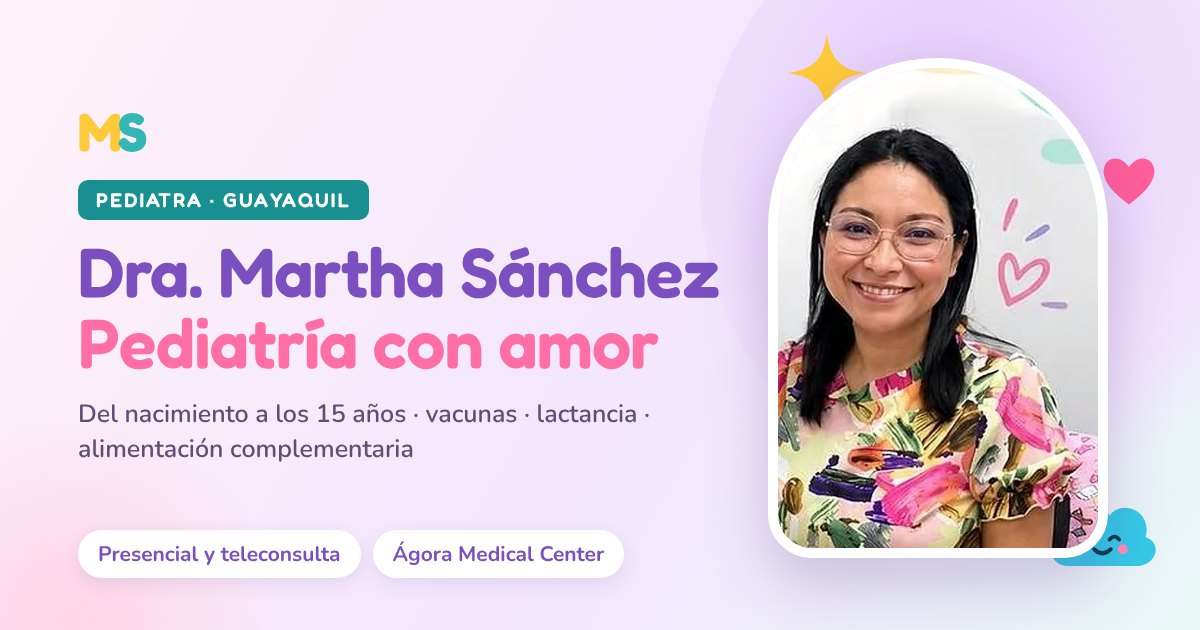
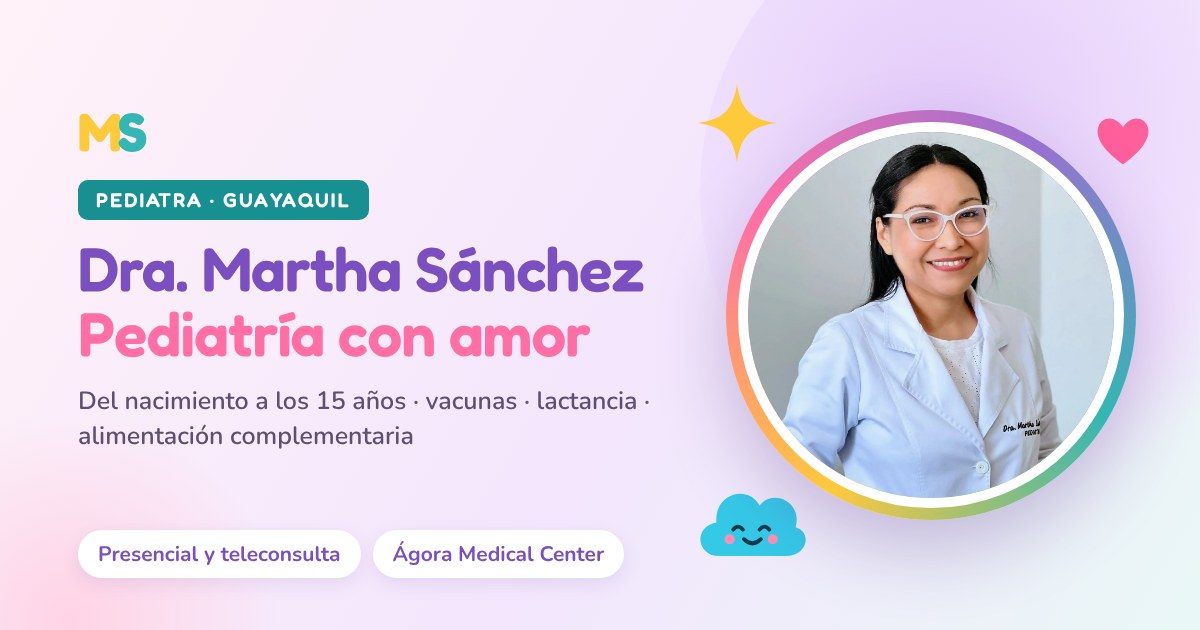
v5

Changed region(s): [[0.0617, 0.0603, 0.9867, 0.9349]]

diff --git a/index.html b/index.html
@@ -22,16 +22,16 @@
   <meta property="og:url" content="https://msaenzy.github.io/dra-martha-sanchez/">
   <meta property="og:title" content="Dra. Martha Sánchez · Pediatra en Guayaquil 💗">
   <meta property="og:description" content="Pediatría con amor, del nacimiento a los 15 años: consulta integral, vacunas, lactancia y alimentación complementaria. Presencial en Ágora Medical Center o teleconsulta.">
-  <meta property="og:image" content="https://msaenzy.github.io/dra-martha-sanchez/assets/images/og-dra-martha-sanchez-pediatra.jpg">
-  <meta property="og:image:secure_url" content="https://msaenzy.github.io/dra-martha-sanchez/assets/images/og-dra-martha-sanchez-pediatra.jpg">
+  <meta property="og:image" content="https://msaenzy.github.io/dra-martha-sanchez/assets/images/og-dra-martha-sanchez-pediatra.jpg?v=2">
+  <meta property="og:image:secure_url" content="https://msaenzy.github.io/dra-martha-sanchez/assets/images/og-dra-martha-sanchez-pediatra.jpg?v=2">
   <meta property="og:image:type" content="image/jpeg">
   <meta property="og:image:width" content="1200">
   <meta property="og:image:height" content="630">
-  <meta property="og:image:alt" content="Dra. Martha Sánchez, pediatra en Guayaquil, sonriendo en su consultorio">
+  <meta property="og:image:alt" content="Foto de perfil de la Dra. Martha Sánchez, pediatra en Guayaquil, con bata blanca, en un círculo de colores pastel">
   <meta name="twitter:card" content="summary_large_image">
   <meta name="twitter:title" content="Dra. Martha Sánchez · Pediatra en Guayaquil">
   <meta name="twitter:description" content="Pediatría con amor, del nacimiento a los 15 años. Presencial en Ágora Medical Center o teleconsulta.">
-  <meta name="twitter:image" content="https://msaenzy.github.io/dra-martha-sanchez/assets/images/og-dra-martha-sanchez-pediatra.jpg">
+  <meta name="twitter:image" content="https://msaenzy.github.io/dra-martha-sanchez/assets/images/og-dra-martha-sanchez-pediatra.jpg?v=2">
   <meta name="twitter:image:alt" content="Dra. Martha Sánchez, pediatra en Guayaquil">
 
   <link rel="icon" href="./assets/icons/favicon.svg" type="image/svg+xml">
@@ -50,6 +50,7 @@
   <link rel="stylesheet" href="./css/components.css">
   <link rel="stylesheet" href="./css/motion.css">
   <link rel="stylesheet" href="./css/responsive.css">
+  <link rel="stylesheet" href="./css/viewport.css">
   <script type="module" src="./js/main.js"></script>
 
   <script type="application/ld+json">
@@ -69,7 +70,7 @@
    "medicalSpecialty": "https://schema.org/Pediatric",
    "url": "https://msaenzy.github.io/dra-martha-sanchez/",
    "image": [
-    "https://msaenzy.github.io/dra-martha-sanchez/assets/images/og-dra-martha-sanchez-pediatra.jpg",
+    "https://msaenzy.github.io/dra-martha-sanchez/assets/images/og-dra-martha-sanchez-pediatra.jpg?v=2",
     "https://msaenzy.github.io/dra-martha-sanchez/assets/images/dra-martha-consultorio.jpg"
    ],
    "logo": "https://msaenzy.github.io/dra-martha-sanchez/assets/icons/icon-512.png",
@@ -278,7 +279,7 @@
       </ul>
     </nav>
     <div class="site-header__actions">
-      <a class="btn btn--cta btn--sm" href="https://wa.me/593979530787?text=Hola%20Dra.%20Martha%2C%20quiero%20agendar%20una%20cita." target="_blank" rel="noopener"><svg class="icon" aria-hidden="true"><use href="#i-chat"/></svg>Agendar</a>
+      <a class="btn btn--cta btn--sm" href="https://wa.me/593979530787?text=Hola%2C%20Dra.%20Martha.%20Me%20gustar%C3%ADa%20agendar%20una%20cita%20pedi%C3%A1trica%20para%20mi%20hijo%2Fa.%20%C2%BFPodr%C3%ADa%20indicarme%20los%20horarios%20disponibles%2C%20por%20favor%3F%20Muchas%20gracias." target="_blank" rel="noopener"><svg class="icon" aria-hidden="true"><use href="#i-chat"/></svg>Agendar</a>
       <button class="site-header__toggle" type="button" data-nav-toggle aria-expanded="false" aria-controls="nav-menu" data-label-open="Abrir menú" data-label-close="Cerrar menú" aria-label="Abrir menú"><span class="bar" aria-hidden="true"></span></button>
     </div>
   </header>
@@ -298,13 +299,13 @@
           </h1>
           <p class="lead" data-reveal="fade-up" style="--reveal-delay:.35s">Consulta pediátrica integral del nacimiento a los 15 años, vacunación y asesoría en lactancia y alimentación complementaria. En Guayaquil y por teleconsulta.</p>
           <div class="hero__cta" data-reveal="fade-up" style="--reveal-delay:.5s">
-            <a class="btn btn--cta" href="https://wa.me/593979530787?text=Hola%20Dra.%20Martha%2C%20quiero%20agendar%20una%20cita%20para%20mi%20hijo%2Fa." target="_blank" rel="noopener"><svg class="icon" aria-hidden="true"><use href="#i-chat"/></svg>Agendar consulta</a>
+            <a class="btn btn--cta" href="https://wa.me/593979530787?text=Hola%2C%20Dra.%20Martha.%20Me%20gustar%C3%ADa%20agendar%20una%20consulta%20pedi%C3%A1trica%20para%20mi%20hijo%2Fa.%20%C2%BFPodr%C3%ADa%20indicarme%20su%20disponibilidad%2C%20por%20favor%3F%20Muchas%20gracias." target="_blank" rel="noopener"><svg class="icon" aria-hidden="true"><use href="#i-chat"/></svg>Agendar consulta</a>
             <a class="btn btn--outline" href="#servicios">Ver servicios</a>
           </div>
           <ul class="hero__facts" role="list" data-reveal="fade-up" style="--reveal-delay:.65s">
-            <li><svg class="icon" aria-hidden="true"><use href="#i-clock"/></svg>Lunes a sábado, previa cita</li>
-            <li><svg class="icon" aria-hidden="true"><use href="#i-pin"/></svg>Ágora Medical Center</li>
-            <li><a href="https://www.instagram.com/dra_marthasanchez/" target="_blank" rel="noopener"><svg class="icon" aria-hidden="true"><use href="#i-instagram"/></svg>@dra_marthasanchez</a></li>
+            <li><a href="https://wa.me/593979530787?text=Hola%2C%20Dra.%20Martha.%20Me%20gustar%C3%ADa%20agendar%20una%20cita%20pedi%C3%A1trica%20para%20mi%20hijo%2Fa.%20%C2%BFPodr%C3%ADa%20indicarme%20los%20horarios%20disponibles%20de%20lunes%20a%20s%C3%A1bado%2C%20por%20favor%3F%20Muchas%20gracias." target="_blank" rel="noopener" aria-label="Agendar por WhatsApp: atención de lunes a sábado, previa cita"><svg class="icon" aria-hidden="true"><use href="#i-clock"/></svg>Lunes a sábado, previa cita</a></li>
+            <li><a href="https://www.google.com/maps/search/?api=1&amp;query=Edificio%20%C3%81gora%20Medical%20Center%20Guayaquil%20Ecuador" target="_blank" rel="noopener" aria-label="Ver la ubicación del consultorio en Google Maps"><svg class="icon" aria-hidden="true"><use href="#i-pin"/></svg>Ágora Medical Center</a></li>
+            <li><a href="https://www.instagram.com/dra_marthasanchez/" target="_blank" rel="noopener" aria-label="Abrir el Instagram de la Dra. Martha Sánchez"><svg class="icon" aria-hidden="true"><use href="#i-instagram"/></svg>@dra_marthasanchez</a></li>
           </ul>
         </div>
 
@@ -342,7 +343,7 @@
                 <li><span class="dot"><svg class="icon" aria-hidden="true"><use href="#i-down"/></svg></span>Seguimiento hasta los 15 años</li>
               </ul>
               <p data-reveal="fade-up">Una consulta con tiempo y buena explicación ayuda a resolverlas con calma. Agenda la tuya por WhatsApp.</p>
-              <a class="btn btn--cta" data-reveal="pop" href="https://wa.me/593979530787?text=Hola%20Dra.%20Martha%2C%20tengo%20dudas%20sobre%20mi%20hijo%2Fa%20y%20quiero%20una%20cita." target="_blank" rel="noopener"><svg class="icon" aria-hidden="true"><use href="#i-chat"/></svg>Agendar consulta</a>
+              <a class="btn btn--cta" data-reveal="pop" href="https://wa.me/593979530787?text=Hola%2C%20Dra.%20Martha.%20Tengo%20algunas%20dudas%20sobre%20la%20salud%20de%20mi%20hijo%2Fa%20y%20me%20gustar%C3%ADa%20agendar%20una%20consulta.%20%C2%BFPodr%C3%ADa%20indicarme%20su%20disponibilidad%2C%20por%20favor%3F" target="_blank" rel="noopener"><svg class="icon" aria-hidden="true"><use href="#i-chat"/></svg>Agendar consulta</a>
             </div>
           </div>
         </div>
@@ -364,44 +365,44 @@
             <article class="carousel__slide"><div class="svc">
               <div class="svc__art" style="--a:#34b6b4;--b:#8fdcd9"><svg viewBox="0 0 64 64" aria-hidden="true"><use href="#s-stetho"/></svg></div>
               <div class="svc__body"><h3>Consulta pediátrica integral</h3><p>Valoración y seguimiento de la salud de tu hijo, desde el nacimiento hasta los 15 años.</p>
-                <a class="svc__link" href="https://wa.me/593979530787?text=Hola%20Dra.%20Martha%2C%20quiero%20agendar%20una%20consulta%20pedi%C3%A1trica%20integral." target="_blank" rel="noopener">Agendar<svg class="icon" aria-hidden="true"><use href="#i-arrow"/></svg></a></div>
+                <a class="svc__link" href="https://wa.me/593979530787?text=Hola%2C%20Dra.%20Martha.%20Me%20gustar%C3%ADa%20agendar%20una%20consulta%20pedi%C3%A1trica%20integral%20para%20mi%20hijo%2Fa.%20%C2%BFQu%C3%A9%20horarios%20tiene%20disponibles%3F%20Muchas%20gracias." target="_blank" rel="noopener">Agendar<svg class="icon" aria-hidden="true"><use href="#i-arrow"/></svg></a></div>
             </div></article>
             <article class="carousel__slide"><div class="svc">
               <div class="svc__art" style="--a:#ff9a2e;--b:#ffc66f"><svg viewBox="0 0 64 64" aria-hidden="true"><use href="#s-syringe"/></svg></div>
               <div class="svc__body"><h3>Aplicación de vacunas</h3><p>Vacunación en consulta, según la edad de tu hijo y su esquema.</p>
-                <a class="svc__link" href="https://wa.me/593979530787?text=Hola%20Dra.%20Martha%2C%20quiero%20consultar%20por%20la%20aplicaci%C3%B3n%20de%20vacunas." target="_blank" rel="noopener">Agendar<svg class="icon" aria-hidden="true"><use href="#i-arrow"/></svg></a></div>
+                <a class="svc__link" href="https://wa.me/593979530787?text=Hola%2C%20Dra.%20Martha.%20Quisiera%20informaci%C3%B3n%20sobre%20la%20aplicaci%C3%B3n%20de%20vacunas%20para%20mi%20hijo%2Fa%20seg%C3%BAn%20su%20edad.%20%C2%BFPodr%C3%ADa%20indicarme%20su%20disponibilidad%2C%20por%20favor%3F" target="_blank" rel="noopener">Agendar<svg class="icon" aria-hidden="true"><use href="#i-arrow"/></svg></a></div>
             </div></article>
             <article class="carousel__slide"><div class="svc">
               <div class="svc__art" style="--a:#ff6fa6;--b:#ffa8c9"><svg viewBox="0 0 64 64" aria-hidden="true"><use href="#s-spoon"/></svg></div>
               <div class="svc__body"><h3>Alimentación complementaria</h3><p>Asesoría para iniciar y organizar la alimentación de tu bebé con seguridad.</p>
-                <a class="svc__link" href="https://wa.me/593979530787?text=Hola%20Dra.%20Martha%2C%20quiero%20una%20asesor%C3%ADa%20en%20alimentaci%C3%B3n%20complementaria." target="_blank" rel="noopener">Agendar<svg class="icon" aria-hidden="true"><use href="#i-arrow"/></svg></a></div>
+                <a class="svc__link" href="https://wa.me/593979530787?text=Hola%2C%20Dra.%20Martha.%20Me%20gustar%C3%ADa%20agendar%20una%20asesor%C3%ADa%20en%20alimentaci%C3%B3n%20complementaria%20para%20mi%20beb%C3%A9.%20%C2%BFQu%C3%A9%20horarios%20tiene%20disponibles%3F%20Muchas%20gracias." target="_blank" rel="noopener">Agendar<svg class="icon" aria-hidden="true"><use href="#i-arrow"/></svg></a></div>
             </div></article>
             <article class="carousel__slide"><div class="svc">
               <div class="svc__art" style="--a:#9a70d1;--b:#c6aaf0"><svg viewBox="0 0 64 64" aria-hidden="true"><use href="#s-prenatal"/></svg></div>
               <div class="svc__body"><h3>Asesoría prenatal en lactancia</h3><p>Prepara la lactancia antes de que nazca tu bebé y llega con tus dudas resueltas.</p>
-                <a class="svc__link" href="https://wa.me/593979530787?text=Hola%20Dra.%20Martha%2C%20quiero%20una%20asesor%C3%ADa%20prenatal%20en%20lactancia." target="_blank" rel="noopener">Agendar<svg class="icon" aria-hidden="true"><use href="#i-arrow"/></svg></a></div>
+                <a class="svc__link" href="https://wa.me/593979530787?text=Hola%2C%20Dra.%20Martha.%20Estamos%20esperando%20a%20nuestro%20beb%C3%A9%20y%20nos%20gustar%C3%ADa%20agendar%20una%20asesor%C3%ADa%20prenatal%20en%20lactancia.%20%C2%BFPodr%C3%ADa%20indicarnos%20su%20disponibilidad%2C%20por%20favor%3F" target="_blank" rel="noopener">Agendar<svg class="icon" aria-hidden="true"><use href="#i-arrow"/></svg></a></div>
             </div></article>
             <article class="carousel__slide"><div class="svc">
               <div class="svc__art" style="--a:#2a6fd6;--b:#7fb0f2"><svg viewBox="0 0 64 64" aria-hidden="true"><use href="#s-drop"/></svg></div>
               <div class="svc__body"><h3>Asesoría en lactancia</h3><p>Acompañamiento y orientación durante la lactancia de tu bebé.</p>
-                <a class="svc__link" href="https://wa.me/593979530787?text=Hola%20Dra.%20Martha%2C%20quiero%20una%20asesor%C3%ADa%20en%20lactancia." target="_blank" rel="noopener">Agendar<svg class="icon" aria-hidden="true"><use href="#i-arrow"/></svg></a></div>
+                <a class="svc__link" href="https://wa.me/593979530787?text=Hola%2C%20Dra.%20Martha.%20Me%20gustar%C3%ADa%20agendar%20una%20asesor%C3%ADa%20en%20lactancia.%20%C2%BFPodr%C3%ADa%20indicarme%20su%20disponibilidad%2C%20por%20favor%3F%20Muchas%20gracias." target="_blank" rel="noopener">Agendar<svg class="icon" aria-hidden="true"><use href="#i-arrow"/></svg></a></div>
             </div></article>
             <article class="carousel__slide"><div class="svc">
               <div class="svc__art" style="--a:#ff8a68;--b:#ffb59d"><svg viewBox="0 0 64 64" aria-hidden="true"><use href="#s-thermo"/></svg></div>
               <div class="svc__body"><h3>Enfermedades pediátricas</h3><p>Atención y orientación cuando tu niño se enferma, con explicaciones claras para la familia.</p>
-                <a class="svc__link" href="https://wa.me/593979530787?text=Hola%20Dra.%20Martha%2C%20quiero%20una%20consulta%20por%20una%20enfermedad%20pedi%C3%A1trica." target="_blank" rel="noopener">Agendar<svg class="icon" aria-hidden="true"><use href="#i-arrow"/></svg></a></div>
+                <a class="svc__link" href="https://wa.me/593979530787?text=Hola%2C%20Dra.%20Martha.%20Mi%20hijo%2Fa%20no%20se%20encuentra%20bien%20y%20me%20gustar%C3%ADa%20agendar%20una%20consulta.%20%C2%BFCu%C3%A1l%20es%20su%20primer%20horario%20disponible%2C%20por%20favor%3F" target="_blank" rel="noopener">Agendar<svg class="icon" aria-hidden="true"><use href="#i-arrow"/></svg></a></div>
             </div></article>
             <article class="carousel__slide"><div class="svc">
               <div class="svc__art" style="--a:#188f90;--b:#5fd0cb"><svg viewBox="0 0 64 64" aria-hidden="true"><use href="#s-video"/></svg></div>
               <div class="svc__body"><h3>Teleconsulta</h3><p>Asesoría desde casa para aclarar dudas sobre enfermedades de tu niño, alimentación y lactancia.</p>
-                <a class="svc__link" href="https://wa.me/593979530787?text=Hola%20Dra.%20Martha%2C%20quiero%20agendar%20una%20teleconsulta." target="_blank" rel="noopener">Agendar teleconsulta<svg class="icon" aria-hidden="true"><use href="#i-arrow"/></svg></a></div>
+                <a class="svc__link" href="https://wa.me/593979530787?text=Hola%2C%20Dra.%20Martha.%20Me%20interesa%20agendar%20una%20teleconsulta.%20%C2%BFPodr%C3%ADa%20indicarme%20c%C3%B3mo%20funciona%20y%20qu%C3%A9%20horarios%20tiene%20disponibles%2C%20por%20favor%3F" target="_blank" rel="noopener">Agendar teleconsulta<svg class="icon" aria-hidden="true"><use href="#i-arrow"/></svg></a></div>
             </div></article>
           </div>
           <button class="carousel__btn carousel__btn--next" type="button" aria-label="Más servicios" hidden><svg class="icon" aria-hidden="true"><use href="#i-right"/></svg></button>
           <div class="carousel__dots carousel__dots--dark" data-dots></div>
         </div>
         <p style="margin:var(--space-md) auto 0;text-align:center;font-weight:700;color:var(--color-primary)" data-reveal="fade-up">Consulta presencial en Guayaquil o teleconsulta.</p>
-        <div style="display:flex;justify-content:center;margin-top:var(--space-md)" data-reveal="pop"><a class="btn btn--cta" href="https://wa.me/593979530787?text=Hola%20Dra.%20Martha%2C%20quiero%20agendar%20una%20cita." target="_blank" rel="noopener"><svg class="icon" aria-hidden="true"><use href="#i-chat"/></svg>Agendar consulta</a></div>
+        <div style="display:flex;justify-content:center;margin-top:var(--space-md)" data-reveal="pop"><a class="btn btn--cta" href="https://wa.me/593979530787?text=Hola%2C%20Dra.%20Martha.%20Me%20gustar%C3%ADa%20agendar%20una%20cita%20pedi%C3%A1trica%20para%20mi%20hijo%2Fa.%20%C2%BFPodr%C3%ADa%20indicarme%20los%20horarios%20disponibles%2C%20por%20favor%3F%20Muchas%20gracias." target="_blank" rel="noopener"><svg class="icon" aria-hidden="true"><use href="#i-chat"/></svg>Agendar consulta</a></div>
       </div>
     </section>
 
@@ -416,10 +417,6 @@
           <p>La atención es previa cita. Son cuatro pasos y casi todo ocurre por WhatsApp.</p>
         </div>
         <div class="how__grid">
-          <div class="how__photo" data-reveal="scale">
-            <svg class="how__swirl" viewBox="0 0 400 500" aria-hidden="true" data-parallax="0.05"><use href="#st-swirl"/></svg>
-            <div class="photo"><img data-asset="how" src="./assets/images/dra-martha-consultorio.jpg" alt="La doctora Martha Sánchez sonriendo, sentada en su escritorio" width="640" height="1260" loading="lazy" decoding="async"></div>
-          </div>
           <article class="step" data-reveal="fade-right"><div class="step__head"><span class="step__n">01</span><h3>Escríbenos por WhatsApp</h3></div><p>Al 097 953 0787. Cuéntanos la edad de tu hijo y el motivo de la consulta.</p></article>
           <article class="step" data-reveal="fade-left"><div class="step__head"><span class="step__n">02</span><h3>Elige la modalidad</h3></div><p>Consulta presencial en el Edificio Ágora Medical Center, o teleconsulta desde casa.</p></article>
           <article class="step" data-reveal="fade-right"><div class="step__head"><span class="step__n">03</span><h3>Confirma día y hora</h3></div><p>De lunes a sábado, en horario de mañana (8:00 a 13:00) o tarde (14:00 a 18:00).</p></article>
@@ -518,7 +515,7 @@
       <div class="container about__grid">
         <div class="about__media" data-reveal="fade-right">
           <svg class="wave" viewBox="0 0 400 500" aria-hidden="true" data-parallax="0.05"><use href="#st-wave"/></svg>
-          <div class="photo"><img data-asset="about" src="./assets/images/dra-martha-bata.jpg" alt="La doctora Martha Sánchez con bata blanca y estetoscopio, junto a los juguetes de su consultorio" width="956" height="1466" loading="lazy" decoding="async"></div>
+          <div class="photo"><img data-asset="about" src="./assets/images/martha-escritorio.jpg" alt="La doctora Martha Sánchez, pediatra en Guayaquil, atendiendo en su consultorio con bata rosa y estetoscopio" width="910" height="1542" loading="lazy" decoding="async"></div>
           <span class="sticker sticker--float" style="--s:5rem;--r:-8deg;bottom:-3%;left:-9%;--bob:7s" data-parallax="0.1" aria-hidden="true"><svg viewBox="0 0 100 100"><use href="#st-sun"/></svg></span>
           <span class="sticker sticker--float" style="--s:3.8rem;--r:10deg;top:-1%;right:-6%" data-parallax="0.15" aria-hidden="true"><svg viewBox="0 0 100 100"><use href="#st-flower"/></svg></span>
         </div>
@@ -537,7 +534,7 @@
               <li>Edificio Ágora Medical Center, Guayaquil</li>
             </ul>
           </div>
-          <div><a class="btn btn--cta" href="https://wa.me/593979530787?text=Hola%20Dra.%20Martha%2C%20quiero%20agendar%20una%20cita." target="_blank" rel="noopener"><svg class="icon" aria-hidden="true"><use href="#i-chat"/></svg>Agendar consulta</a></div>
+          <div><a class="btn btn--cta" href="https://wa.me/593979530787?text=Hola%2C%20Dra.%20Martha.%20Me%20gustar%C3%ADa%20agendar%20una%20cita%20pedi%C3%A1trica%20para%20mi%20hijo%2Fa.%20%C2%BFPodr%C3%ADa%20indicarme%20los%20horarios%20disponibles%2C%20por%20favor%3F%20Muchas%20gracias." target="_blank" rel="noopener"><svg class="icon" aria-hidden="true"><use href="#i-chat"/></svg>Agendar consulta</a></div>
         </div>
       </div>
     </section>
@@ -560,7 +557,7 @@
             <span class="sticker sticker--float" style="--s:4.6rem;--r:8deg;top:-1.2rem;right:-.6rem" aria-hidden="true"><svg viewBox="0 0 100 100"><use href="#st-cloud"/></svg></span>
             <h3>¿Tienes otra pregunta?</h3>
             <p>Escríbenos y te respondemos por WhatsApp.</p>
-            <a class="btn btn--white btn--sm" href="https://wa.me/593979530787?text=Hola%20Dra.%20Martha%2C%20tengo%20una%20pregunta." target="_blank" rel="noopener"><svg class="icon" aria-hidden="true"><use href="#i-chat"/></svg>Escribir</a>
+            <a class="btn btn--white btn--sm" href="https://wa.me/593979530787?text=Hola%2C%20Dra.%20Martha.%20Visit%C3%A9%20su%20p%C3%A1gina%20web%20y%20quisiera%20hacerle%20una%20consulta%2C%20por%20favor." target="_blank" rel="noopener"><svg class="icon" aria-hidden="true"><use href="#i-chat"/></svg>Escribir</a>
           </aside>
         </div>
       </div>
@@ -581,7 +578,7 @@
               <div class="place__row"><span class="ico"><svg class="icon" aria-hidden="true"><use href="#i-pin"/></svg></span><p><strong>Consultorio:</strong> Edificio Ágora Medical Center, Guayaquil</p></div>
               <div class="place__row"><span class="ico"><svg class="icon" aria-hidden="true"><use href="#i-clock"/></svg></span><p><strong>Horario:</strong> lunes a sábado, 8:00 a 13:00 y 14:00 a 18:00</p></div>
               <div class="place__cta">
-                <a class="btn btn--cta btn--sm" href="https://wa.me/593979530787?text=Hola%20Dra.%20Martha%2C%20quiero%20agendar%20una%20consulta%20presencial." target="_blank" rel="noopener"><svg class="icon" aria-hidden="true"><use href="#i-chat"/></svg>Agendar</a>
+                <a class="btn btn--cta btn--sm" href="https://wa.me/593979530787?text=Hola%2C%20Dra.%20Martha.%20Me%20gustar%C3%ADa%20agendar%20una%20consulta%20presencial%20en%20su%20consultorio%20del%20%C3%81gora%20Medical%20Center.%20%C2%BFPodr%C3%ADa%20indicarme%20los%20horarios%20disponibles%2C%20por%20favor%3F" target="_blank" rel="noopener"><svg class="icon" aria-hidden="true"><use href="#i-chat"/></svg>Agendar</a>
                 <a class="btn btn--outline btn--sm" href="https://www.google.com/maps/search/?api=1&amp;query=Edificio%20%C3%81gora%20Medical%20Center%20Guayaquil%20Ecuador" target="_blank" rel="noopener">Abrir en el mapa</a>
               </div>
             </div>
@@ -593,7 +590,7 @@
               <div class="place__row"><span class="ico"><svg class="icon" aria-hidden="true"><use href="#i-video"/></svg></span><p><strong>Para qué sirve:</strong> aclarar dudas sobre enfermedades de tu niño y recibir asesoría en alimentación y lactancia.</p></div>
               <div class="place__row"><span class="ico"><svg class="icon" aria-hidden="true"><use href="#i-phone"/></svg></span><p><strong>Cómo pedirla:</strong> por WhatsApp, al <a href="tel:+593979530787">097 953 0787</a></p></div>
               <div class="place__cta">
-                <a class="btn btn--cta btn--sm" href="https://wa.me/593979530787?text=Hola%20Dra.%20Martha%2C%20quiero%20agendar%20una%20teleconsulta." target="_blank" rel="noopener"><svg class="icon" aria-hidden="true"><use href="#i-chat"/></svg>Agendar teleconsulta</a>
+                <a class="btn btn--cta btn--sm" href="https://wa.me/593979530787?text=Hola%2C%20Dra.%20Martha.%20Me%20interesa%20agendar%20una%20teleconsulta.%20%C2%BFPodr%C3%ADa%20indicarme%20c%C3%B3mo%20funciona%20y%20qu%C3%A9%20horarios%20tiene%20disponibles%2C%20por%20favor%3F" target="_blank" rel="noopener"><svg class="icon" aria-hidden="true"><use href="#i-chat"/></svg>Agendar teleconsulta</a>
               </div>
             </div>
           </article>
@@ -616,6 +613,7 @@
             </div>
             <form class="form" id="form-cita" action="https://wa.me/593979530787" method="get" target="_blank" data-reveal="scale">
               <div class="field"><label for="f-nombre">Tu nombre</label><input id="f-nombre" name="nombre" type="text" autocomplete="name" required placeholder="Nombre y apellido"></div>
+              <div class="field"><label for="f-edad">Nombre y edad de tu hijo/a <small>(opcional)</small></label><input id="f-edad" name="paciente" type="text" autocomplete="off" placeholder="Ej.: Sofía, 8 meses"></div>
               <div class="field"><label for="f-motivo">¿Qué necesitas?</label>
                 <select id="f-motivo" name="motivo" required>
                   <option value="una consulta pediátrica integral">Consulta pediátrica integral</option>
@@ -623,13 +621,13 @@
                   <option value="una asesoría en alimentación complementaria">Alimentación complementaria</option>
                   <option value="una asesoría prenatal en lactancia">Asesoría prenatal en lactancia</option>
                   <option value="una asesoría en lactancia">Asesoría en lactancia</option>
-                  <option value="una consulta por una enfermedad pediátrica">Enfermedades pediátricas</option>
+                  <option value="una consulta por enfermedad">Mi hijo/a está enfermo/a</option>
                   <option value="una teleconsulta">Teleconsulta</option>
                 </select></div>
               <div class="field"><label for="f-modalidad">Modalidad</label>
-                <select id="f-modalidad" name="modalidad"><option value="presencial">Presencial en el consultorio</option><option value="teleconsulta">Teleconsulta</option></select></div>
+                <select id="f-modalidad" name="modalidad"><option value="la atención presencial en su consultorio del Ágora Medical Center">Presencial en el consultorio</option><option value="la atención virtual (teleconsulta)">Teleconsulta</option></select></div>
               <div class="field"><label for="f-horario">Horario preferido</label>
-                <select id="f-horario" name="horario"><option value="la mañana (8:00 a 13:00)">Mañana, 8:00 a 13:00</option><option value="la tarde (14:00 a 18:00)">Tarde, 14:00 a 18:00</option></select></div>
+                <select id="f-horario" name="horario"><option value="el horario de la mañana (8:00 a 13:00)">Mañana, 8:00 a 13:00</option><option value="el horario de la tarde (14:00 a 18:00)">Tarde, 14:00 a 18:00</option></select></div>
               <button class="btn btn--cta" type="submit"><svg class="icon" aria-hidden="true"><use href="#i-chat"/></svg>Continuar en WhatsApp</button>
               <p class="hint">No guardamos tus datos: solo se usan para armar el mensaje.</p>
             </form>
@@ -650,7 +648,7 @@
         </a>
         <div class="site-footer__social">
           <a href="https://www.instagram.com/dra_marthasanchez/" target="_blank" rel="noopener" aria-label="Instagram de la Dra. Martha Sánchez"><svg class="icon" aria-hidden="true"><use href="#i-instagram"/></svg></a>
-          <a href="https://wa.me/593979530787" target="_blank" rel="noopener" aria-label="WhatsApp para agendar citas"><svg class="icon" aria-hidden="true"><use href="#i-chat"/></svg></a>
+          <a href="https://wa.me/593979530787?text=Hola%2C%20Dra.%20Martha.%20Visit%C3%A9%20su%20p%C3%A1gina%20web%20y%20me%20gustar%C3%ADa%20agendar%20una%20cita%20pedi%C3%A1trica.%20%C2%BFPodr%C3%ADa%20indicarme%20los%20horarios%20disponibles%2C%20por%20favor%3F" target="_blank" rel="noopener" aria-label="WhatsApp para agendar citas"><svg class="icon" aria-hidden="true"><use href="#i-chat"/></svg></a>
           <a href="tel:+593979530787" aria-label="Llamar al 097 953 0787"><svg class="icon" aria-hidden="true"><use href="#i-phone"/></svg></a>
           <a href="https://www.instagram.com/dra_marthasanchez/reels/" target="_blank" rel="noopener" aria-label="Videos de la Dra. Martha Sánchez en Instagram"><svg class="icon" aria-hidden="true"><use href="#i-video"/></svg></a>
         </div>

diff --git a/css/viewport.css b/css/viewport.css
@@ -1,0 +1,74 @@
+/* viewport.css — v4.4: en escritorio cada sección ocupa exactamente una pantalla (100% del alto de la vista)
+   y su contenido se escala con el alto disponible para que siempre se vea completo y centrado. */
+@media (min-width: 64em) and (min-height: 600px) {
+  :root { --vh-pad-top: calc(var(--header-h) + clamp(0.75rem, 2svh, 1.5rem)); --vh-pad-bottom: clamp(0.75rem, 2.5svh, 2rem); }
+
+  main > .section, main > .hero {
+    min-height: 100svh; display: flex; flex-direction: column; justify-content: center;
+    padding-top: var(--vh-pad-top); padding-bottom: var(--vh-pad-bottom);
+  }
+  main > .section > .container, main > .hero > .container { width: min(100% - 2 * var(--gutter), var(--container)); flex: none; }
+  html { scroll-padding-top: 0; }
+  :target { scroll-margin-top: 0; }
+
+  .section__head { margin-bottom: clamp(0.8rem, 3svh, 2.5rem); gap: clamp(0.4rem, 1svh, 0.875rem); }
+  h2 { font-size: clamp(1.8rem, 1rem + 3.2svh, 3rem); }
+
+  /* Inicio */
+  .hero__copy { gap: clamp(0.7rem, 2.2svh, 1.5rem); }
+  .hero__media { width: min(28rem, calc((100svh - var(--header-h) - 6rem) * 0.74)); padding-top: 1rem; }
+  .hero h1 { font-size: clamp(2.4rem, 1rem + 6svh, 4.6rem); }
+
+  /* Paneles con foto (Dudas) */
+  .panel__grid { padding: clamp(1.25rem, 4svh, 3.5rem); gap: clamp(1.5rem, 4svh, 4rem); }
+  .panel__photo { width: min(100%, calc((100svh - var(--header-h) - 9rem) * 0.8)); justify-self: center; }
+  .panel__copy { gap: clamp(0.6rem, 2svh, 1.5rem); }
+  .chips li { padding-block: clamp(0.3rem, 0.9svh, 0.6rem); }
+
+  /* Servicios */
+  .svc__art { height: clamp(5.5rem, 15svh, 9.5rem); }
+  .svc__art svg { width: clamp(3.4rem, 9svh, 5.2rem); height: clamp(3.4rem, 9svh, 5.2rem); }
+  .svc__body { padding: clamp(0.8rem, 2.2svh, 1.3rem) 1.4rem clamp(0.9rem, 2.4svh, 1.5rem); gap: 0.35rem; }
+  #servicios .section__head + .carousel + p, #servicios .container > div:last-child { margin-top: clamp(0.6rem, 2svh, 1.5rem) !important; }
+
+  /* Instagram */
+  .ig .panel__grid { gap: clamp(0.8rem, 2.4svh, 2rem); }
+  .ig__box { padding: clamp(0.8rem, 2.2svh, 2rem); gap: clamp(0.8rem, 2svh, 1.5rem); }
+  .ig__avatar { width: clamp(4rem, 11svh, 6.2rem); height: clamp(4rem, 11svh, 6.2rem); }
+  .ig__side { gap: clamp(0.3rem, 1svh, 0.6rem); }
+  .reel__media { aspect-ratio: auto; height: clamp(9rem, 30svh, 19rem); }
+  .reel__body { padding: 0.75rem 1rem 0.85rem; gap: 0.2rem; }
+  .reel__body span { display: -webkit-box; -webkit-line-clamp: 2; -webkit-box-orient: vertical; overflow: hidden; }
+  .ig__more { gap: 0.5rem; }
+  .ig__chips { flex-wrap: nowrap; justify-content: flex-start; overflow-x: auto; scroll-snap-type: x proximity; padding: 0.3rem 0.2rem 0.7rem; scrollbar-width: thin; scrollbar-color: rgb(255 255 255 / .7) transparent; }
+  .ig__chips li { flex: none; }
+  .ig__more h3::after { content: " · desliza →"; font-weight: 400; font-size: .9rem; opacity: .85; }
+  .carousel__dots { margin-top: clamp(0.5rem, 1.5svh, 1rem); }
+
+  /* Sobre la doctora */
+  .about__grid { align-items: center; }
+  .about__media { width: min(26rem, calc((100svh - var(--header-h) - 5rem) * 0.76)); }
+  .about__copy { gap: clamp(0.5rem, 1.6svh, 0.875rem); }
+  .facts { padding-block: clamp(0.8rem, 2svh, 1.4rem); }
+
+  /* Preguntas */
+  .faq summary { min-height: clamp(2.9rem, 6.5svh, 3.5rem); padding-block: clamp(0.5rem, 1.2svh, 0.9rem); }
+  .faq__list { gap: clamp(0.5rem, 1.2svh, 0.8rem); }
+
+  /* Atención */
+  .place__map, .place__art { aspect-ratio: auto; height: clamp(8rem, 27svh, 17rem); }
+  .place__body { gap: clamp(0.5rem, 1.4svh, 1rem); }
+
+  /* Agenda */
+  .book__grid { padding: clamp(1.25rem, 4svh, 3.5rem); }
+  .form { gap: clamp(0.45rem, 1.3svh, 0.875rem); padding: clamp(1rem, 2.6svh, 1.6rem); }
+  .field input, .field select { min-height: clamp(2.6rem, 5.6svh, 3.1rem); padding-block: 0.45rem; }
+}
+@media (min-width: 64em) and (min-height: 600px) and (max-height: 960px) {
+  .reel__media { height: clamp(8rem, 25svh, 19rem); }
+  .reel__body span { -webkit-line-clamp: 1; }
+  .ig .section__head p { display: none; }
+  .ig__stats { display: none; }
+  .svc__art { height: clamp(4.8rem, 11.5svh, 9.5rem); }
+  #servicios .section__head p { font-size: var(--text-sm); }
+}

diff --git a/css/components.css b/css/components.css
@@ -304,3 +304,16 @@ html, body { overflow-x: clip; }
   .ig__chips li { flex: none; scroll-snap-align: start; }
   .ig__more h3::after { content: " · desliza →"; font-weight: 400; font-size: .9rem; opacity: .85; }
 }
+/* v4.1: "Cómo agendar" sin foto → 4 pasos en cuadrícula */
+.about__media .photo img { object-position: 35% 25%; }
+.ig__avatar img { object-position: 50% 22%; }
+.field label small { font-weight: 400; opacity: .75; }
+/* v4.3: chips del hero como botones (WhatsApp, mapa, Instagram) */
+.hero__facts li { padding: 0; transition: transform .3s var(--ease-pop), box-shadow .3s; }
+.hero__facts li a { min-height: 2.75rem; padding: 0.45rem 1rem 0.45rem 0.55rem; border-radius: var(--radius-pill); cursor: pointer; }
+.hero__facts li a::after { content: "→"; margin-left: .15rem; opacity: 0; translate: -4px 0; transition: opacity .25s, translate .3s var(--ease-out); }
+.hero__facts li:hover { transform: translateY(-3px); box-shadow: var(--shadow-md); }
+.hero__facts li a:hover::after, .hero__facts li a:focus-visible::after { opacity: 1; translate: 0 0; }
+.hero__facts li a:focus-visible { outline: 3px solid var(--color-secondary); outline-offset: 2px; }
+.hero__facts li a:hover .icon { background: var(--color-secondary); color: #fff; }
+.hero__facts .icon { transition: background .25s, color .25s; }

diff --git a/js/main.js b/js/main.js
@@ -27,7 +27,11 @@ if (form) {
   form.addEventListener("submit", (e) => {
     e.preventDefault();
     const d = new FormData(form);
-    const msg = `Hola Dra. Martha, soy ${String(d.get("nombre") || "").trim()}. Quiero agendar ${d.get("motivo")} (${d.get("modalidad")}) y prefiero atención en ${d.get("horario")}. ¿Me ayudan con la cita?`;
+    const nombre = String(d.get("nombre") || "").trim();
+    const paciente = String(d.get("paciente") || "").trim();
+    const motivo = String(d.get("motivo"));
+    const para = motivo.includes("prenatal") ? "" : paciente ? ` para mi hijo/a (${paciente})` : " para mi hijo/a";
+    const msg = `Hola, Dra. Martha. Mi nombre es ${nombre} y me gustaría agendar ${motivo}${para}. Prefiero ${d.get("modalidad")} y ${d.get("horario")}. ¿Podría confirmarme la disponibilidad, por favor? Muchas gracias.`;
     window.open(`https://wa.me/593979530787?text=${encodeURIComponent(msg)}`, "_blank", "noopener");
   });
 }

diff --git a/css/responsive.css b/css/responsive.css
@@ -55,3 +55,10 @@
   .hero__star { inset: -4% -4% auto auto; width: 78%; }
   .about__media .wave { inset: -4% -8% -4% 20%; }
 }
+/* v4.1: sin foto en "Cómo agendar" */
+@media (min-width: 48em) { .how__grid { grid-template-columns: repeat(2, 1fr); max-width: 60rem; margin-inline: auto; } }
+@media (min-width: 64em) {
+  .how__grid { grid-template-columns: repeat(4, 1fr); grid-template-rows: auto; max-width: none; align-items: stretch; }
+  .how__grid .step:nth-of-type(n) { grid-column: auto; grid-row: auto; transform: none; }
+  .how__grid .step:nth-of-type(even) { margin-top: 2rem; }
+}

diff --git a/config/assets.js b/config/assets.js
@@ -6,7 +6,6 @@ export const assets = {
   placeholder: "./assets/images/placeholder.svg",
   hero: "./assets/images/martha-escritorio.jpg",
   panel: "./assets/images/martha-recien-nacido.jpg",
-  how: "./assets/images/dra-martha-consultorio.jpg",
-  about: "./assets/images/dra-martha-bata.jpg",
+  about: "./assets/images/martha-escritorio.jpg",
   face: "./assets/images/martha-rostro.jpg",
 };
